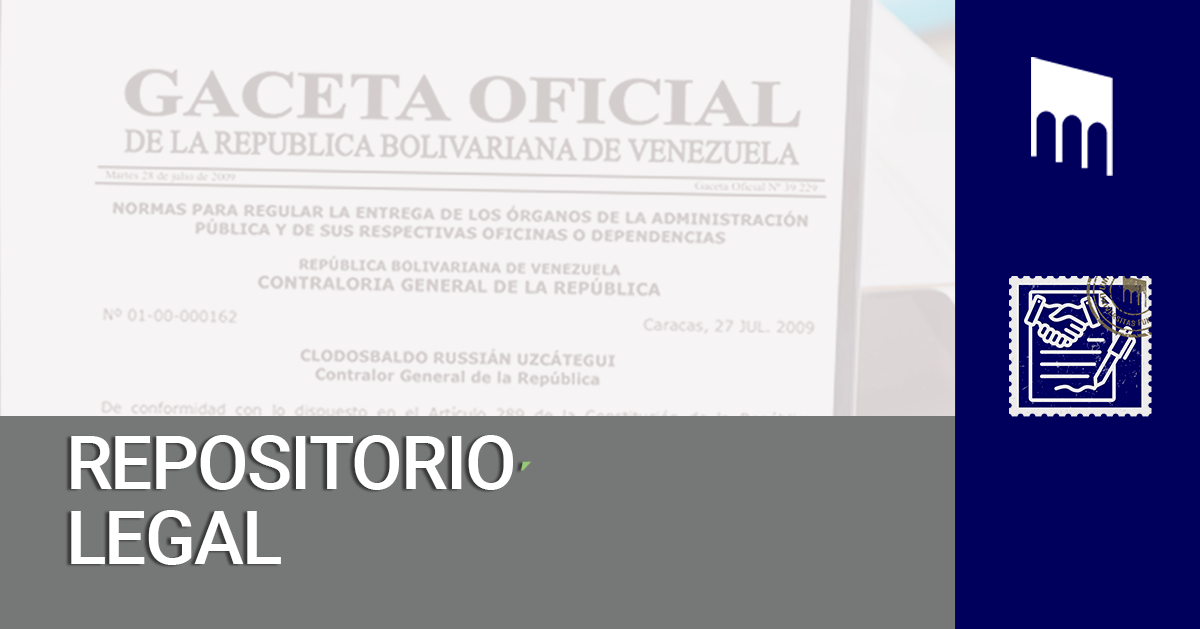
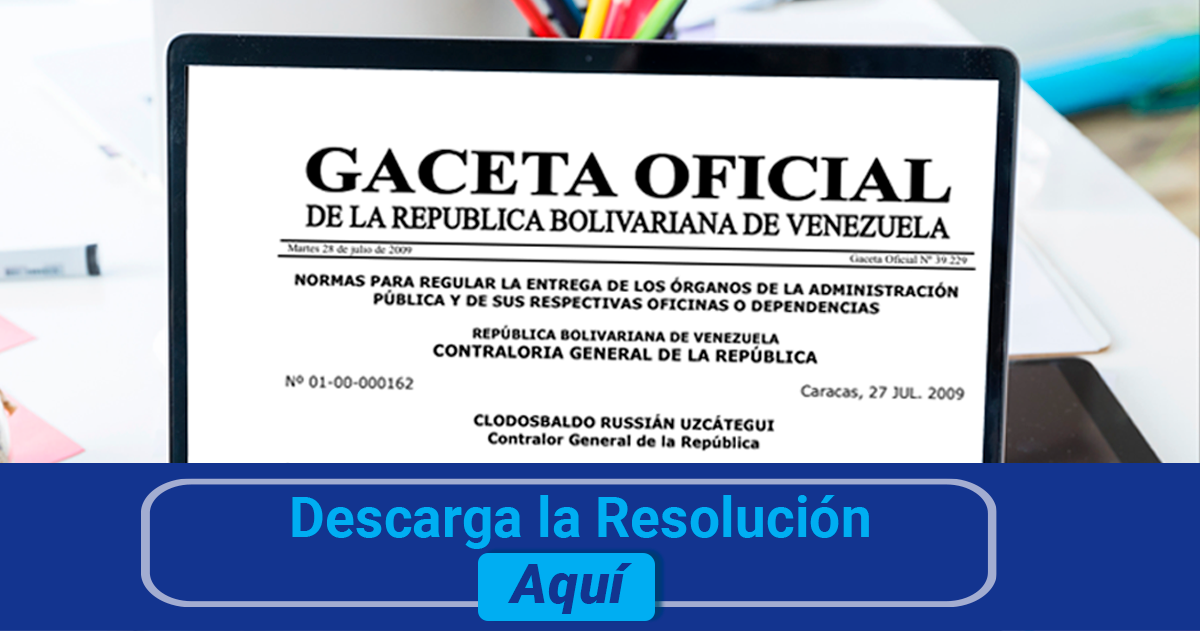
cambio color azul a chillon y agg imagenes de repositorio

diff --git a/src/app/dashboard/(main)/acerca-de/page.tsx b/src/app/dashboard/(main)/acerca-de/page.tsx
@@ -18,7 +18,7 @@ export default function AcercaDePage() {
         <div className="flex flex-col sm:flex-row items-center text-center sm:text-left mb-6">
           <div className="relative h-[100px] w-[100px] flex-shrink-0 mb-4 sm:mb-0 sm:mr-6">
             <Image
-              src="/AZUL 250PX.svg"
+              src="/LOGO_CON_FONDO.png"
               alt="Universitas Legal Logo"
               fill // Usamos 'fill' para que la imagen llene el contenedor
               className="object-contain" // 'object-contain' para que no se deforme
@@ -26,7 +26,7 @@ export default function AcercaDePage() {
           </div>
           <div>
             <h2 className="text-3xl font-bold text-primary mb-2">
-              Acerca de Actas de Entrega
+              Acerca de Acta de Entrega
             </h2>
             <p className="text-md text-muted-foreground italic">
               Una solución innovadora de Universitas Services C.A.
@@ -40,37 +40,34 @@ export default function AcercaDePage() {
         {/* Contenido Principal */}
         <div className="space-y-4 text-g7 leading-relaxed">
           <p>
-            Actas de entrega es una innovadora plataforma digital diseñada para
-            ser el principal asistente tecnológico de los servidores públicos en
-            Venezuela. Nuestra aplicación transforma un proceso tradicionalmente
-            complejo en una experiencia de usuario simple, estructurada y
-            segura.
+            <strong>Acta de Entrega</strong> es la solución tecnológica líder
+            diseñada para asistir de manera integral a los servidores públicos
+            en Venezuela. Nuestra plataforma transforma un proceso
+            administrativo tradicionalmente complejo en una experiencia digital
+            simple, estructurada y con total seguridad jurídica.
           </p>
           <p>
-            El núcleo de nuestra plataforma es una interfaz intuitiva que guía
-            al usuario a través de formularios inteligentes, facilitando la
-            recopilación de toda la información necesaria de manera ordenada.
-            Hemos creado un ecosistema que se adapta a las distintas necesidades
-            de nuestros usuarios a través de dos versiones: una versión express,
-            ideal para generar un documento de forma rápida y directa, y una
-            versión pro, pensada para una gestión integral y a largo plazo.
+            El núcleo de nuestro sistema es una{' '}
+            <strong>interfaz inteligente</strong> que guía al usuario a través
+            de formularios dinámicos, facilitando la recopilación y organización
+            de toda la información requerida por los órganos de control fiscal.
           </p>
           <p className="p-4 bg-muted/30 border-l-4 border-primary rounded-r-lg">
-            <strong>La versión pro es el corazón de nuestra innovación.</strong>{' '}
-            Ofrece un entorno robusto con almacenamiento seguro en la nube,
-            permitiendo al usuario guardar, gestionar y editar sus documentos en
-            cualquier momento y desde cualquier lugar. Además, integramos
-            herramientas de inteligencia artificial que actúan como un asesor
-            proactivo, generando alertas y sugerencias para asegurar la debida
-            diligencia en cada paso.
+            Nuestra plataforma integra herramientas de vanguardia, como el{' '}
+            <strong>Consultor IA</strong>, un asistente normativo que actúa de
+            forma proactiva, y un <strong>Sistema de Alertas</strong>{' '}
+            automatizado que garantiza el cumplimiento de los lapsos legales de
+            3, 5 y 120 días. Además, el <strong>módulo de Compliance</strong>{' '}
+            permite realizar auditorías preventivas antes de la firma final,
+            asegurando que cada acta cumpla estrictamente con la
+            <strong>Resolución N.º 01-00-0162 de la CGR</strong>.
           </p>
           <p>
-            En Universitas Services C.A. estamos comprometidos con el desarrollo
-            de soluciones digitales profesionales. Actas de entrega es un
-            reflejo de esa visión: una aplicación potente, confiable y segura,
-            diseñada no solo para generar un documento, sino para aportar
-            tranquilidad, control y eficiencia a la importante labor de los
-            servidores públicos de nuestro país.
+            <strong>Acta de Entrega</strong> no es solo una aplicación para
+            generar documentos; es un compromiso con la transparencia, la
+            eficiencia y la seguridad jurídica. Es una herramienta potente y
+            confiable diseñada para aportar control y tranquilidad a la labor de
+            los servidores públicos de nuestro país.
           </p>
         </div>
       </div>

diff --git a/src/app/dashboard/(forms)/repositorio-pro/page.tsx b/src/app/dashboard/(forms)/repositorio-pro/page.tsx
@@ -6,18 +6,18 @@ import { RepoCardPro } from '@/components/RepoCardPro';
 
 const cardData = [
   {
-    imageUrl: '/repositorio-pro/Consideraciones generales.png',
+    imageUrl: '/repositorio-pro/Consideraciones-generales.png',
     description:
       'Para garantizar un proceso de entrega-recepción transparente, te invitamos a leer detenidamente las siguientes consideraciones.',
     buttonText: 'Ingrese aquí',
     linkHref: 'https://universitas.legal/consideraciones-generales/',
   },
   {
-    imageUrl: '/repositorio-pro/REPOSITORIO LEGAL.png',
+    imageUrl: '/repositorio-pro/Repositorio Legal.png',
     description: 'Descarga la Resolución CGR N°01-000162 de fecha 27-07-2009.',
     buttonText: 'Descarga aquí',
     linkHref:
-      'https://drive.google.com/file/d/1L5y59yCxXiOfbDyuuU3V_5RfT1qouzI-/view',
+      'https://drive.google.com/file/d/18nPMnYsMYw93Dnh67EECRuCc0AFqbslS/view?usp=sharing',
   },
   {
     imageUrl: '/repositorio/imagen curso para APP.png',
@@ -26,30 +26,7 @@ const cardData = [
     buttonText: 'Más información',
     linkHref: 'https://universitas.academy/cursos/actas-de-entrega/',
   },
-  {
-    imageUrl: '/repositorio-pro/ARTICULO AGORA 1.png',
-    description:
-      'Tienes 120 días para formular observaciones a un acta recibida. Descubre en este análisis los puntos clave que debes verificar para un control fiscal efectivo.',
-    buttonText: 'Ingrese aquí',
-    linkHref:
-      'https://agora.universitasfundacion.com/verificacion-de-acta-de-entrega/',
-  },
-  {
-    imageUrl: '/repositorio-pro/ARTICULO AGORA 2.png',
-    description:
-      'La Unidad de Auditoría Interna es el actor clave en la verificación. Conoce sus competencias, responsabilidades y el procedimiento que debe seguir para validar las actas.',
-    buttonText: 'Ingrese aquí',
-    linkHref:
-      'https://agora.universitasfundacion.com/acta-de-entrega-verificacion/',
-  },
-  {
-    imageUrl: '/repositorio-pro/ARTICULO AGORA 3.png',
-    description:
-      'El acta de entrega es más que un requisito; es una herramienta clave del Control Interno. Descubre cómo su correcta verificación previene riesgos y fortalece la gestión.',
-    buttonText: 'Ingrese aquí',
-    linkHref:
-      'https://agora.universitasfundacion.com/verificacion-acta-de-entrega/',
-  },
+
   {
     imageUrl: '/repositorio/control-fiscal.png',
     description:

diff --git a/src/components/form-pro/Form-MA-pro.tsx b/src/components/form-pro/Form-MA-pro.tsx
@@ -934,7 +934,7 @@ export function ActaMaximaAutoridadProForm() {
                 size="sm"
                 onClick={handleSaveProgress}
                 disabled={isLoading}
-                className="cursor-pointer shadow-xs border bg-secondary hover:bg-secondary/80 text-secondary-foreground font-semibold"
+                className="cursor-pointer shadow-xs border bg-chillon hover:bg-chillon/80 text-white font-semibold"
               >
                 <BsSave className="mr-2 h-4 w-4" />
                 {isLoading ? 'Guardando...' : 'Guardar'}
@@ -1828,7 +1828,7 @@ export function ActaMaximaAutoridadProForm() {
                     nextStep();
                   }}
                   className={cn(
-                    'text-white cursor-pointer shadow-lg shadow-blue-500/50 active:shadow-inner transition-all bg-primary hover:bg-primary/90 hover:text-white',
+                    'text-white cursor-pointer shadow-lg shadow-blue-500/50 active:shadow-inner transition-all bg-chillon hover:bg-chillon/80 hover:text-white',
                     isLoading && 'pointer-events-none opacity-50'
                   )}
                 >
@@ -1841,7 +1841,7 @@ export function ActaMaximaAutoridadProForm() {
                   onClick={form.handleSubmit(onSubmit)}
                   disabled={isLoading || !isFormGloballyValid}
                   variant="default"
-                  className="text-white cursor-pointer shadow-lg shadow-blue-500/50 active:shadow-inner transition-all bg-primary hover:bg-primary/90 hover:text-white"
+                  className="text-white cursor-pointer shadow-lg shadow-blue-500/50 active:shadow-inner transition-all bg-chillon hover:bg-chillon/80 hover:text-white"
                 >
                   {isLoading ? 'Enviando...' : 'Crear Acta (PRO)'}
                 </Button>

diff --git a/src/components/form-pro/Form-Entrante-pro.tsx b/src/components/form-pro/Form-Entrante-pro.tsx
@@ -933,7 +933,7 @@ export function ActaEntranteProForm() {
                 size="sm"
                 onClick={handleSaveProgress}
                 disabled={isLoading}
-                className="cursor-pointer shadow-xs border bg-secondary hover:bg-secondary/80 text-secondary-foreground font-semibold"
+                className="cursor-pointer shadow-xs border bg-chillon hover:bg-chillon/80 text-white font-semibold"
               >
                 <BsSave className="mr-2 h-4 w-4" />
                 {isLoading ? 'Guardando...' : 'Guardar'}
@@ -1827,7 +1827,7 @@ export function ActaEntranteProForm() {
                     nextStep();
                   }}
                   className={cn(
-                    'text-white cursor-pointer shadow-lg shadow-blue-500/50 active:shadow-inner transition-all bg-primary hover:bg-primary/90 hover:text-white',
+                    'text-white cursor-pointer shadow-lg shadow-blue-500/50 active:shadow-inner transition-all bg-chillon hover:bg-chillon/80 hover:text-white',
                     isLoading && 'pointer-events-none opacity-50'
                   )}
                 >
@@ -1840,7 +1840,7 @@ export function ActaEntranteProForm() {
                   onClick={form.handleSubmit(onSubmit)}
                   disabled={isLoading || !isFormGloballyValid}
                   variant="default"
-                  className="text-white cursor-pointer shadow-lg shadow-blue-500/50 active:shadow-inner transition-all bg-primary hover:bg-primary/90 hover:text-white"
+                  className="text-white cursor-pointer shadow-lg shadow-blue-500/50 active:shadow-inner transition-all bg-chillon hover:bg-chillon/80 hover:text-white"
                 >
                   {isLoading ? 'Enviando...' : 'Crear Acta (PRO)'}
                 </Button>

diff --git a/src/components/form-pro/Form-Saliente-pro.tsx b/src/components/form-pro/Form-Saliente-pro.tsx
@@ -922,7 +922,7 @@ export function ActaSalienteProForm() {
                 size="sm"
                 onClick={handleSaveProgress}
                 disabled={isLoading}
-                className="cursor-pointer shadow-xs border bg-secondary hover:bg-secondary/80 text-secondary-foreground font-semibold"
+                className="cursor-pointer shadow-xs border bg-chillon hover:bg-chillon/80 text-white font-semibold"
               >
                 <BsSave className="mr-2 h-4 w-4" />
                 {isLoading ? 'Guardando...' : 'Guardar'}
@@ -1684,7 +1684,7 @@ export function ActaSalienteProForm() {
                     nextStep();
                   }}
                   className={cn(
-                    'text-white cursor-pointer shadow-lg shadow-blue-500/50 active:shadow-inner transition-all bg-primary hover:bg-primary/90 hover:text-white',
+                    'text-white cursor-pointer shadow-lg shadow-blue-500/50 active:shadow-inner transition-all bg-chillon hover:bg-chillon/80 hover:text-white',
                     isLoading && 'pointer-events-none opacity-50'
                   )}
                 >
@@ -1697,7 +1697,7 @@ export function ActaSalienteProForm() {
                   onClick={form.handleSubmit(onSubmit)}
                   disabled={isLoading || !isFormGloballyValid}
                   variant="default"
-                  className="text-white cursor-pointer shadow-lg shadow-blue-500/50 active:shadow-inner transition-all bg-primary hover:bg-primary/90 hover:text-white"
+                  className="text-white cursor-pointer shadow-lg shadow-blue-500/50 active:shadow-inner transition-all bg-chillon hover:bg-chillon/80 hover:text-white"
                 >
                   {isLoading ? 'Enviando...' : 'Crear Acta (PRO)'}
                 </Button>

diff --git a/src/components/RepoCardPro.tsx b/src/components/RepoCardPro.tsx
@@ -26,8 +26,8 @@ export function RepoCardPro({
       className={cn(
         // Estructura Base y Tamaño Fijo
         'flex flex-col h-full w-full max-w-[380px]',
-        // Estilos Visuales: Borde Primary estático, Fondo Blanco, Redondeado
-        'bg-white border-2 border-primary rounded-3xl',
+        // Estilos Visuales: Borde Chillon estático, Fondo Blanco, Redondeado
+        'bg-white border-2 border-chillon rounded-3xl',
         // Sombra fija
         'shadow-md',
         className
@@ -50,8 +50,8 @@ export function RepoCardPro({
 
       {/* Línea Separadora Azul Estática */}
       <div className="px-5 py-4">
-        {/* Color bg-primary fijo, sin hover */}
-        <div className="h-0.5 w-full bg-primary rounded-full" />
+        {/* Color bg-chillon fijo, sin hover */}
+        <div className="h-0.5 w-full bg-chillon rounded-full" />
       </div>
 
       {/* Contenido de Texto y Botón */}
@@ -67,7 +67,7 @@ export function RepoCardPro({
         <div className="pt-2">
           <Button
             asChild
-            className="w-full h-full rounded-xl text-lg bg-primary text-primary-foreground hover:bg-primary/90 font-bold shadow-sm"
+            className="w-full h-full rounded-xl text-lg bg-chillon text-primary-foreground hover:bg-chillon/90 font-bold shadow-sm"
           >
             <Link
               href={linkHref}

diff --git a/src/components/form-pro/Form-Compliance.tsx b/src/components/form-pro/Form-Compliance.tsx
@@ -1135,8 +1135,7 @@ export function ComplianceForm() {
                   nextStep();
                 }}
                 className={cn(
-                  'text-white cursor-pointer shadow-lg shadow-blue-500/50 active:shadow-inner transition-all bg-primary hover:bg-primary/90 hover:text-white',
-                  // Podríamos añadir lógica de deshabilitación si isLoading
+                  'text-white cursor-pointer shadow-lg shadow-blue-500/50 active:shadow-inner transition-all bg-chillon hover:bg-chillon/80 hover:text-white',
                   isLoading && 'pointer-events-none opacity-50'
                 )}
               >
@@ -1150,7 +1149,7 @@ export function ComplianceForm() {
                 }
                 disabled={isLoading}
                 variant="default"
-                className="text-white cursor-pointer shadow-lg shadow-blue-500/50 active:shadow-inner transition-all bg-primary hover:bg-primary/90 hover:text-white"
+                className="text-white cursor-pointer shadow-lg shadow-blue-500/50 active:shadow-inner transition-all bg-chillon hover:bg-chillon/80 hover:text-white"
               >
                 {isLoading ? 'Enviando...' : 'Finalizar autoevaluación'}
               </Button>

diff --git a/src/app/dashboard/(forms)/asistencia-usuario/page.tsx b/src/app/dashboard/(forms)/asistencia-usuario/page.tsx
@@ -14,9 +14,7 @@ const proCardsData = [
     description:
       'Resuelve tus dudas sobre el funcionamiento de la aplicación, el proceso de gestión y los pasos clave que debes seguir. Encuentra respuestas rápidas y útiles para optimizar tu ruta.',
     href: '/dashboard/faq-pro',
-    icon: (
-      <BsFillQuestionSquareFill className="h-13 w-13 text-icon-asistencia" />
-    ),
+    icon: <BsFillQuestionSquareFill className="h-13 w-13 text-chillon" />,
   },
   {
     id: 'consultor-ia',
@@ -24,7 +22,7 @@ const proCardsData = [
     description:
       'Resuelve tus dudas al instante. Nuestro Asesor  utiliza inteligencia artificial para analizar tu caso y responder tus preguntas sobre Actas de Entrega y normativas. Además, un agente experto revisará la consulta para entregarte un reporte con observaciones profesionales.',
     href: '/dashboard/consultoria',
-    icon: <FaRobot className="h-13 w-13 text-icon-asistencia" />,
+    icon: <FaRobot className="h-13 w-13 text-chillon" />,
   },
   /*
   {

diff --git a/src/components/profile/ChangePasswordForm.tsx b/src/components/profile/ChangePasswordForm.tsx
@@ -23,7 +23,6 @@ import {
 } from '@/components/ui/card';
 import { Separator } from '@/components/ui/separator';
 import { useState } from 'react';
-import { useRouter } from 'next/navigation';
 import { FaEye, FaEyeSlash } from 'react-icons/fa';
 import { SuccessAlertDialog } from '../SuccessAlertDialog';
 import { toast } from 'sonner';
@@ -229,7 +228,7 @@ export function ChangePasswordForm() {
             <CardFooter className="border-t pt-6 flex justify-end">
               <Button
                 type="submit"
-                className="cursor-pointer"
+                className="cursor-pointer bg-chillon hover:bg-chillon/80"
                 disabled={isLoading}
               >
                 {isLoading ? 'Actualizando...' : 'Actualizar contraseña'}

diff --git a/src/components/profile/profileForm.tsx b/src/components/profile/profileForm.tsx
@@ -318,7 +318,7 @@ export function ProfileForm() {
                 </Button>
                 <Button
                   type="submit"
-                  className="cursor-pointer"
+                  className="cursor-pointer bg-chillon hover:bg-chillon/80"
                   disabled={!form.formState.isDirty || isLoading}
                 >
                   {isLoading ? 'Guardando...' : 'Guardar cambios'}
@@ -328,7 +328,7 @@ export function ProfileForm() {
               <Button
                 type="button"
                 onClick={() => setIsEditing(true)}
-                className="cursor-pointer"
+                className="cursor-pointer bg-chillon hover:bg-chillon/80"
               >
                 Editar perfil
               </Button>

diff --git a/src/components/CardAsistencia.tsx b/src/components/CardAsistencia.tsx
@@ -37,7 +37,7 @@ export function CardPro({
           'items-center',
 
           // --- Efectos visuales ---
-          'bg-card shadow-sm border-2 border-primary',
+          'bg-card shadow-sm border-2 border-chillon',
           'transition-all duration-300 ease-in-out',
           'hover:shadow-lg hover:scale-[1.01]'
         )}

diff --git a/src/config/sidebar-nav.ts b/src/config/sidebar-nav.ts
@@ -113,10 +113,4 @@ export const proNav: NavItem[] = [
     href: '/dashboard/consultoria',
     icon: LiaRobotSolid,
   },
-  {
-    id: 'pro-conocenos',
-    title: 'Conócenos',
-    href: '/dashboard/conocenos-pro',
-    src: '/Icono - trazo - universitas.png',
-  },
 ];
